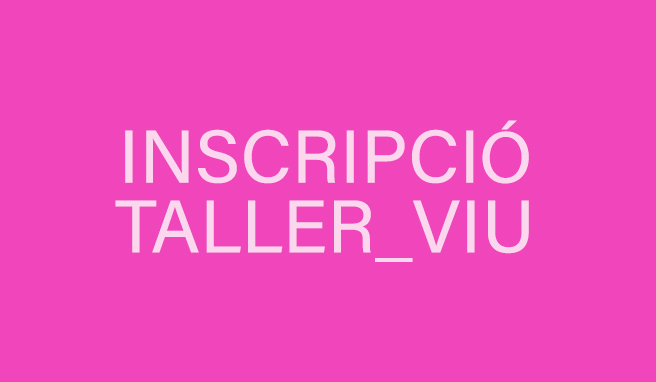
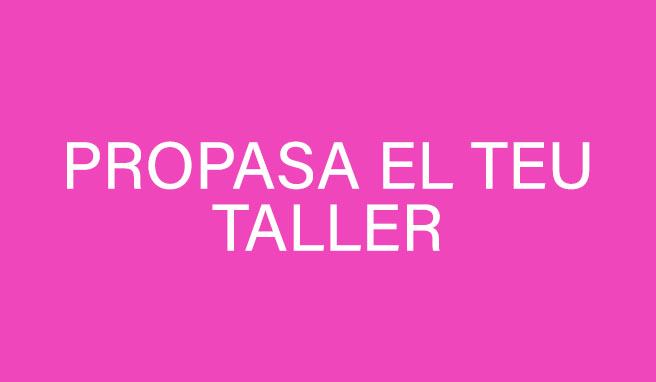
visac

Changed region(s): [[0.0915, 0.3168, 0.9146, 0.6911]]

diff --git a/index.html b/index.html
@@ -29,16 +29,14 @@
                   Sabem que la cultura conforma la tradició i ens canvia.<br><br>
                   T'hi apuntes?<br><br><br>
 
-                  1. Clica a la imatge per inscriure't al festival (imprescindible):<br><br>
-
-                <a href="https://shorturl.at/tHIXY"><img src="https://niflauersfolk.cat/img/entrades.jpg" style="width:100%" /></a><br><br><br>
-2. Assegura't els àpats al formulari següent (cada àpat val 8 euros) ( Opcional):<br><br>
-
+                  1. Per inscriure”t al festival clica aquí:<br><br>
+                  <a href="https://shorturl.at/tHIXY"><img src="https://niflauersfolk.cat/img/entrades.jpg" style="width:100%" /></a><br><br><br>
+                  2. Reserva els àpats ara. A partir del 15 de juliol ja no s'acceptaran més reserves:
                   <a href="https://shorturl.at/iNSV7"><img src="https://niflauersfolk.cat/img/apats.jpg" style="width:100%"/></a><br><br><br>
-3. Al festival hi haurà espais perquè comparteixis el teu talent. Inscriu-te aquí (Opcional):<br><br>
+                  3. Si vols oferir algun taller a la programació VIVA clica aquí: <br><br>
                   <a href="https://shorturl.at/aBDRS"><img src="https://niflauersfolk.cat/img/viu.jpg"style="width:100%" /></a><br>
-                          <br><br>
-                            <p><br>
+                   <br><br>
+                      <p><br>
      </div>
      <br>
    <div id="gira">
